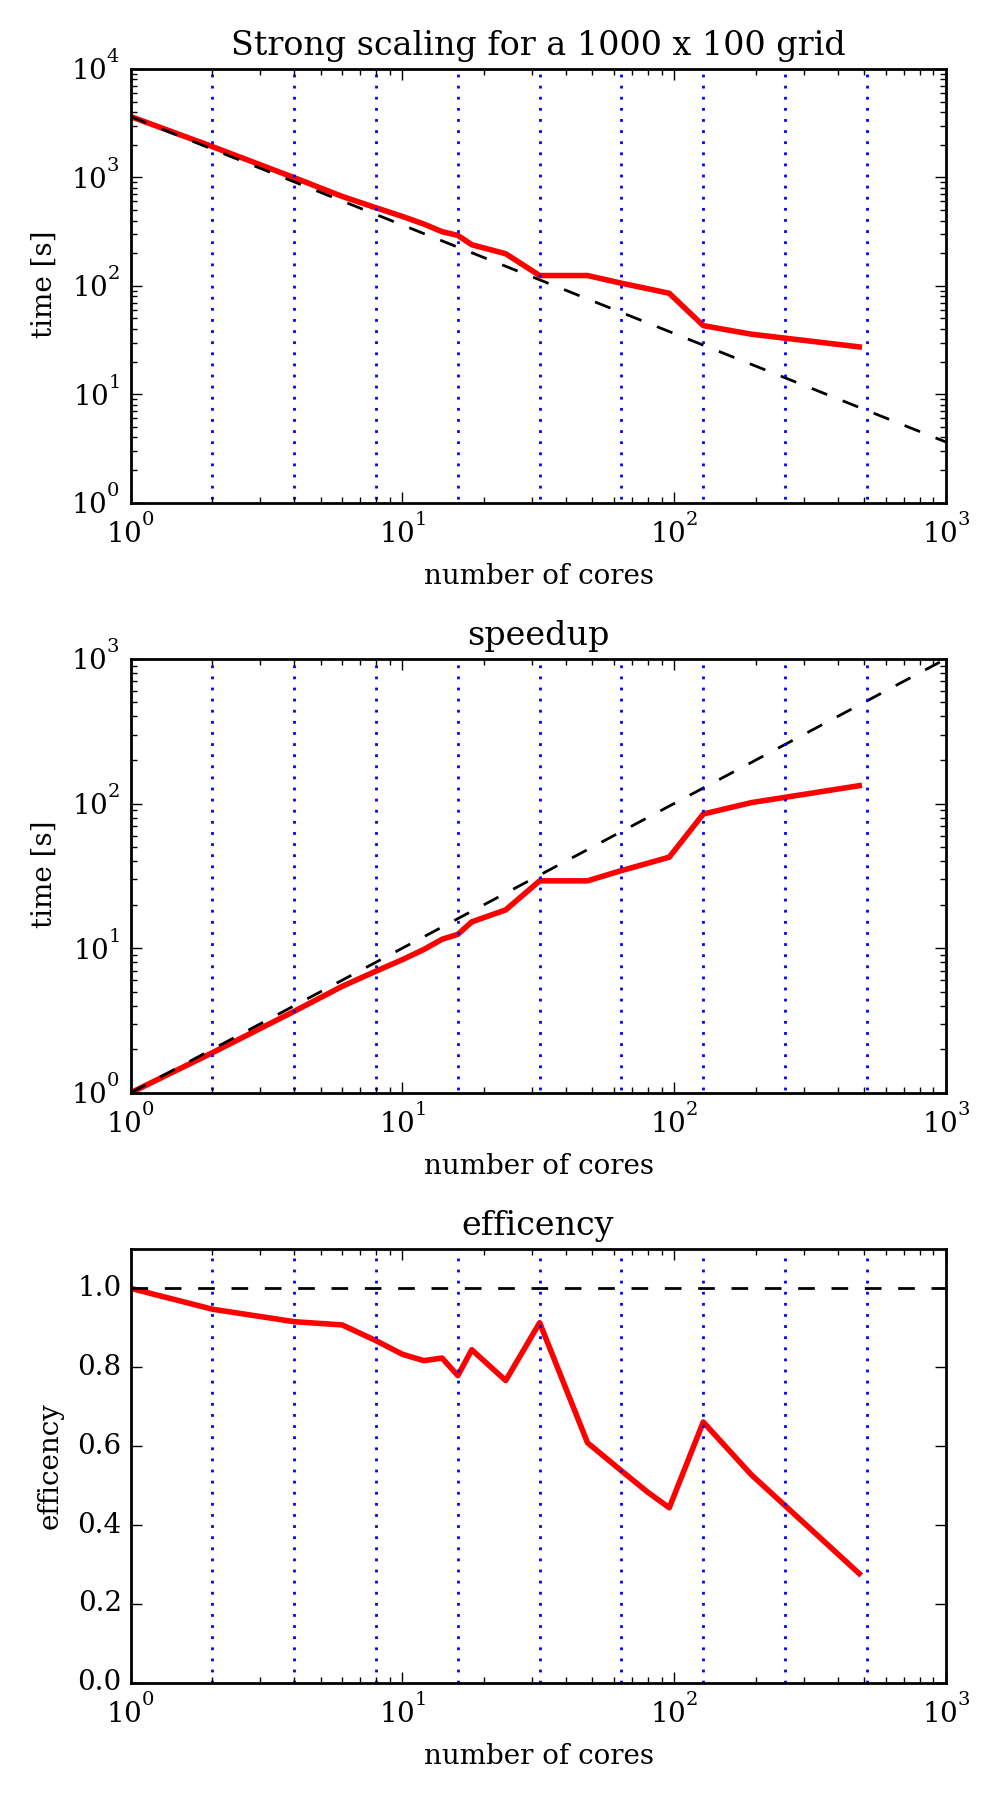
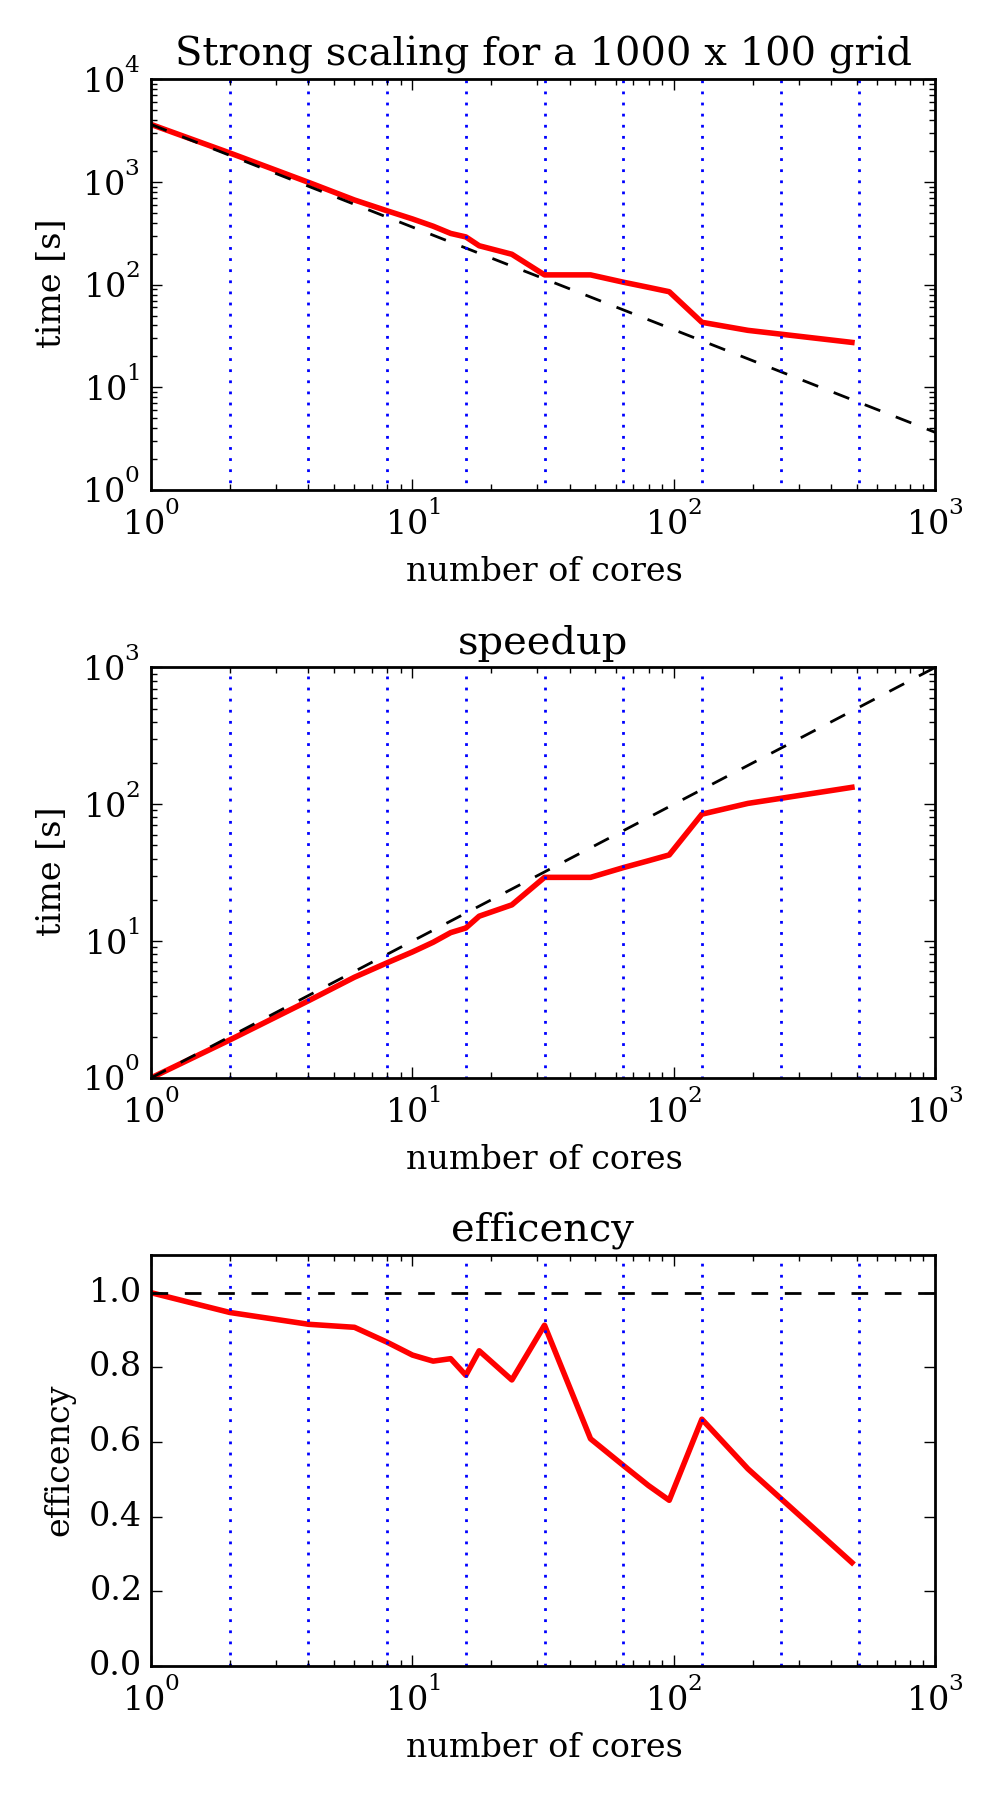
add hardscaling 10k

diff --git a/doc/data/hardscaling/plot_hardscaling.py b/doc/data/hardscaling/plot_hardscaling.py
@@ -37,12 +37,13 @@ plotopts = {
 #def ratio_s_v(npp, nx, ny):
 #	return 4.*ny/(nx/npp)/(ny+4)
 
-
+prefix = ''
 if len(argv) > 2:
     print "Usage: plot_hardscaling.py data.txt"
     exit(1)
 elif len(argv)==2:
     datafile = argv[1]
+    prefix = '.'.join(datafile.split('.')[:-1])
 else:
     datafile = 'results_hard.txt'
     
@@ -75,8 +76,8 @@ plot_node_bounds(ax1)
 
 ax1.set_title('Strong scaling for a 1000 x 100 grid')
 
+ax1.set_xlim(xmin=1, xmax=fact)
 ax1.set_ylim(ymin=1, ymax = 1e4)
-ax1.set_xlim(xmin=1, xmax=1e3)
 
 ax1.set_xlabel('number of cores')
 ax1.set_ylabel('time [s]')
@@ -101,8 +102,8 @@ plot_node_bounds(ax2)
 ax2.set_xscale("log")
 ax2.set_yscale("log")
 
+ax2.set_xlim(xmin=1, xmax=fact)
 ax2.set_ylim(ymin=1, ymax=1e3)
-ax2.set_xlim(xmin=1, xmax=1e3)
 
 ax2.set_title('speedup')
 
@@ -115,7 +116,7 @@ ax2.set_ylabel('time [s]')
 
 ax3 = fig.add_subplot(nplots,1,3)
 
-eff = speedup / N
+eff = speedup / N * N[0]
 
 ax3.plot(N, eff, 'r-', **plotopts)
 
@@ -128,7 +129,7 @@ plot_node_bounds(ax3)
 ax3.set_xscale("log")
 ax3.set_yscale("linear")
 
-ax3.set_xlim(xmin=1, xmax=1e3)
+ax3.set_xlim(xmin=1, xmax=fact)
 ax3.set_ylim(ymin=0, ymax=1.1)
 
 ax3.set_title('efficency')
@@ -140,8 +141,8 @@ ax3.set_ylabel('efficency')
 
 plt.tight_layout()
 
-fig.savefig('hardscaling.svg', **savefigopts)
-fig.savefig('hardscaling.png', **savefigopts)
+fig.savefig(prefix+'hardscaling.svg', **savefigopts)
+fig.savefig(prefix+'hardscaling.png', **savefigopts)
 
 plt.close(fig)
 
